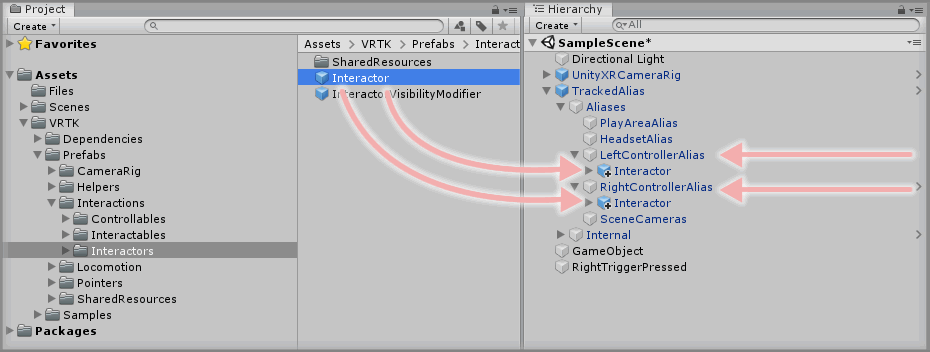
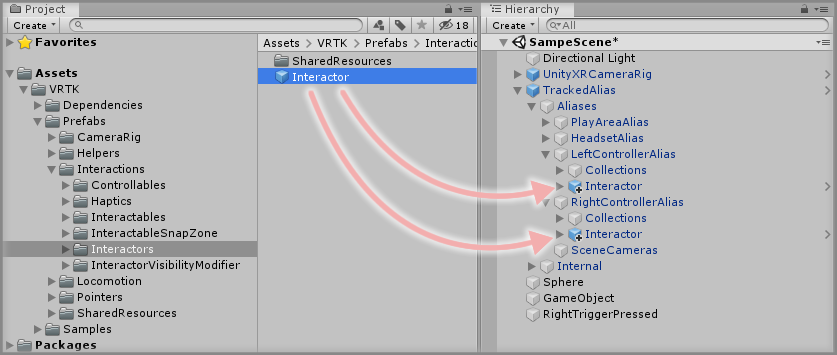
fix(HowToGuides): update interactor guide to reflect new inspectors
As the UnityEvents can now be collapsed in the inspector, the
screenshots have been updated to show this and keep it neater.

Some additional text has been added also to clean up the base scene.

Changed region(s): [[0.0, 0.0, 0.994, 1.0], [0.0, 0.1875, 0.3417, 1.0], [0.9319, 0.0, 0.994, 0.0625]]

diff --git a/Documentation/HowToGuides/Interactions/AddingAnInteractor/README.md b/Documentation/HowToGuides/Interactions/AddingAnInteractor/README.md
@@ -30,11 +30,11 @@ The Interactor prefab can be added to any GameObject that we want to be able to 
 
 The `Interactor` prefab comes with an `ExampleAvatar` GameObject, which provides a basic representation of the Interactor containing a simple cube mesh and a simple cube collider. These can be changed to suit whatever purpose you may have, but for this example, we'll keep the `ExampleAvatar` GameObject untouched.
 
-> Note: If you followed the [Adding A TrackedAlias](../../CameraRigs/AddingATrackedAlias/README.md) and added in custom GameObjects for controller avatars, you can delete them now as the `ExampleAvatar` GameObject will provide us with a basic controller avatar instead.
+> Note: If you followed the [Adding A TrackedAlias](../../CameraRigs/AddingATrackedAlias/README.md) and added in custom GameObjects for controller avatars, you can delete them now as the `ExampleAvatar` GameObject will provide us with a basic controller avatar instead. This guide is based off the scene created in [Converting A Float Action To A Boolean Action](../../Actions/ConvertingAFloatActionToABooleanAction/README.md).
 
 Expand the VRTK directory in the Unity Project window until the `VRTK -> Prefabs -> Interactions -> Interactors` directory is visible. For this example, we're going to add the Interactor prefab to our controller aliases within our TrackedAlias prefab, so expand the TrackedAlias prefab in the Unity Hierarchy window until the `LeftControllerAlias` and `RightControllerAlias` GameObjects are visible.
 
-Drag and drop the `Interactor` prefab to be a child of the `LeftControllerAlias` then drag and drop another `Interactor` prefab to be a child of the RightControllerAlias`.
+Drag and drop the `Interactor` prefab to be a child of the `LeftControllerAlias` then drag and drop another `Interactor` prefab to be a child of the `RightControllerAlias`.
 
 ![Drag Interactor To Controller Aliases](assets/images/DragInteractorToControllerAliases.png)
 
@@ -48,9 +48,9 @@ We need to specify an action that initiates the Interactor's Grab notification. 
 
 In the [Converting A Float Action To A Boolean Action](../../Actions/ConvertingAFloatActionToABooleanAction/README.md) guide, we learned how to convert a controller axis value to a boolean value so we can initiate actions such as grabbing when a controller axis reaches a certain limit. This is ideal, as for this example we'll set up pressing the trigger axis down on the controller will initiate the Grab action.
 
-There is already a `RightTriggerPressed` GameObject in the Unity Hierarchy window that will give us a `Boolean Action` for the Right Controller Trigger axis. We need to create the same concept but for the Left Controller Trigger axis.
+There is already a `RightTriggerPressed` GameObject in the Unity Hierarchy window that will give us a `Boolean Action` for the Right Controller Trigger axis. We need to create the same concept but for the Left Controller Trigger axis. This `RightTriggerPressed` action sequence is initiated by the `Unity Axis 1D Action` component found within our scene on the GameObject named `GameObject`. Let's rename this to make it a bit easier to understand, so rename the `GameObject` GameObject to `RightTriggerAxis`. Let's also remove the `Opacity Changer` component from our newly named `RightTriggerAxis` GameObject as this won't be needed anymore. Finally, let's delete the `Sphere` GameObject as that isn't needed either.
 
-> Challenge: Can you set up a `LeftTriggerPressed` GameObject in the Unity scene that allows us to get a `Boolean Action` out of when the Left Controller Trigger axis is squeezed by at least 75%? Use the [Converting A Float Action To A Boolean Action](../../Actions/ConvertingAFloatActionToABooleanAction/README.md) guide for help. It will help you if you rename the `GameObject` GameObject in the Unity Hierarchy to something more descriptive, such as `RightTriggerAxis` as the role of that GameObject is to report the axis values from the Right Controller Trigger.
+> Challenge: Can you set up a `LeftTriggerPressed` GameObject in the Unity scene that allows us to get a `Boolean Action` out of when the Left Controller Trigger axis is squeezed by at least 75%? Use the [Converting A Float Action To A Boolean Action](../../Actions/ConvertingAFloatActionToABooleanAction/README.md) guide for help. It is now helpful to rename the `GameObject` GameObject in the Unity Hierarchy to something more descriptive, such as `RightTriggerAxis` as the role of that GameObject is to report the axis values from the Right Controller Trigger.
 
 Now we should have a `LeftTriggerPressed` GameObject in the Unity Hierarchy window and we can drag and drop this `LeftTriggerPressed` GameObject into the `Grab Action` parameter on the `Interactor Facade` component.
 
